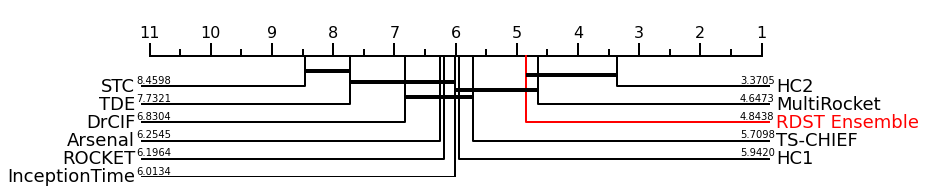
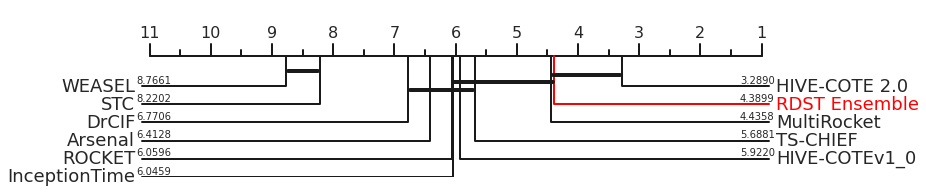
Update CD image, remove prime by default

diff --git a/convst/classifiers/rdst_ensemble.py b/convst/classifiers/rdst_ensemble.py
@@ -8,7 +8,7 @@ from convst.utils.checks_utils import (check_n_jobs, check_array_1D,
                                        check_is_boolean, check_is_numeric)
 from convst.transformers import R_DST
 from convst.transformers._input_transformers import (
-    Raw, Derivate, Periodigram, FastHankelTransform
+    Raw, Derivate, Periodigram
 )
 from sklearn.utils.fixes import delayed
 from sklearn.base import BaseEstimator, ClassifierMixin
@@ -67,7 +67,7 @@ class R_DST_Ensemble(BaseEstimator, ClassifierMixin):
         shapelet_lengths=[11],
         shapelet_lengths_bounds=None,
         lengths_bounds_reduction=0.5,
-        prime_dilations=True,
+        prime_dilations=False,
         n_samples=None,
         n_jobs=1,
         backend="processes",

diff --git a/tests/test_rdst.py b/tests/test_rdst.py
@@ -112,8 +112,8 @@ def test_length_bounds(name, bounds, reduction, expected):
     ('GunPoint',0.98),
     ('Wine',0.94),
     ('BasicMotions',0.94),
-    ('PLAID',0.895),
-    ('AsphaltObstaclesCoordinates',0.795)
+    ('PLAID',0.89),
+    ('AsphaltObstaclesCoordinates',0.78)
 ])
 def test_performance(name, expected):
     X_train, X_test, y_train, y_test, min_len = load_sktime_dataset_split(

diff --git a/convst/utils/plot_utils.py b/convst/utils/plot_utils.py
@@ -6,14 +6,21 @@ Created on Thu Dec  1 09:22:29 2022
 @author: lifo
 """
 import pandas as pd
+
 import numpy as np
+
 import seaborn as sns
-from matplotlib import pyplot as plt
+
 import operator
+
 import math
+
 import networkx
+
 from scipy.stats import wilcoxon
 from scipy.stats import friedmanchisquare
+
+from matplotlib import pyplot as plt
 
 # TODO: refactor methods
 

diff --git a/convst/transformers/rdst.py b/convst/transformers/rdst.py
@@ -105,7 +105,7 @@ class R_DST(BaseEstimator, TransformerMixin):
         shapelet_lengths=[11],
         shapelet_lengths_bounds=None,
         lengths_bounds_reduction=0.5,
-        prime_dilations=True,
+        prime_dilations=False,
         proba_norm=0.8,
         percentiles=[5,10],
         random_state=None,

diff --git a/convst/classifiers/rdst_ridge.py b/convst/classifiers/rdst_ridge.py
@@ -72,7 +72,7 @@ class R_DST_Ridge(BaseEstimator, ClassifierMixin):
         shapelet_lengths=[11],
         shapelet_lengths_bounds=None,
         lengths_bounds_reduction=0.5,
-        prime_dilations=True,
+        prime_dilations=False,
         proba_norm=0.8,
         percentiles=[5,10],
         n_jobs=1,
